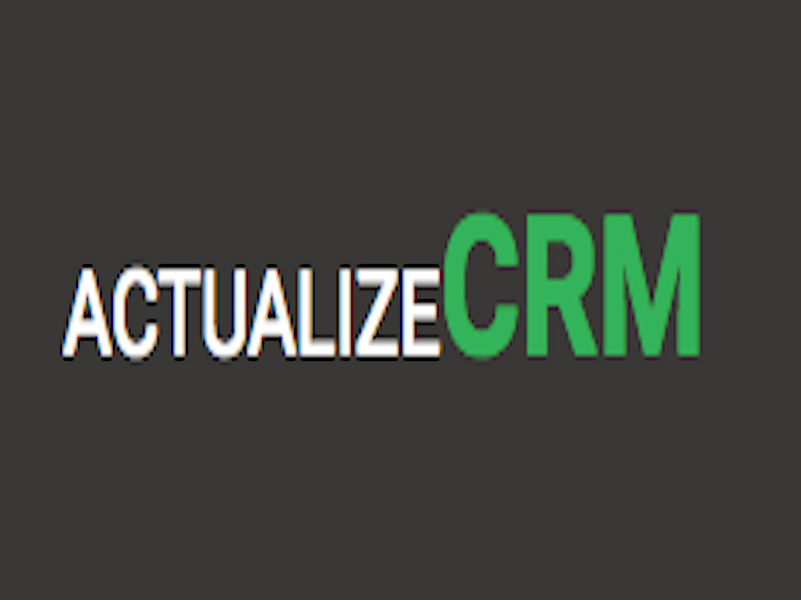
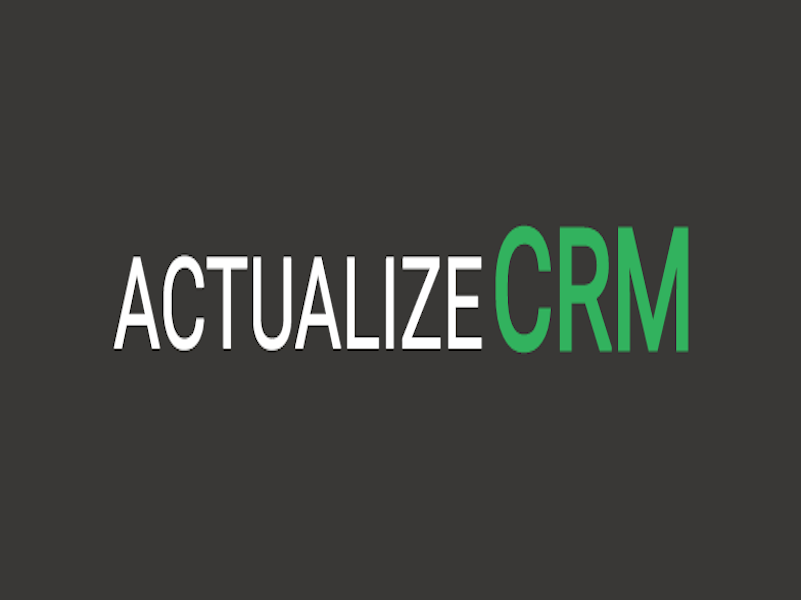
changed profile images for better quality, added email form

Changed region(s): [[0.0624, 0.33, 0.8739, 0.6]]

diff --git a/index.html b/index.html
@@ -49,7 +49,7 @@
               <a class="nav-link js-scroll-trigger" href="#about">About</a>
             </li>
             <li class="nav-item">
-              <a class="nav-link js-scroll-trigger" href="#team">Team</a>
+              <a class="nav-link js-scroll-trigger" href="#bio">Bio</a>
             </li>
             <li class="nav-item">
               <a class="nav-link js-scroll-trigger" href="#contact">Contact</a>
@@ -67,11 +67,11 @@
           <div class="intro-heading text-uppercase">Full-Stack 
             <br>
           Developer</div>             
-          <span class="btn btn-primary btn-xl text-uppercase js-scroll-trigger" href="#services">Tell Me More</span>
+          <a class="btn btn-primary btn-xl text-uppercase js-scroll-trigger" href="#portfolio">Tell Me More</a>
         </div>
       </div>
     </header>
-    </div>
+
 
     <!-- Services -->
 <!--     <section id="services">
@@ -129,7 +129,7 @@
                   <i class="fa fa-plus fa-3x"></i>
                 </div>
               </div>
-              <img class="img-fluid" src="img/portfolio/capstone.jpg" alt="">
+              <img class="img-fluid" src="img/portfolio/capstone.png" alt="">
             </a>
             <div class="portfolio-caption">
               <h4>Where's The Deal</h4>
@@ -143,7 +143,7 @@
                   <i class="fa fa-plus fa-3x"></i>
                 </div>
               </div>
-              <img class="img-fluid" src="img/portfolio/RGBgame.png" alt="">
+              <img class="img-fluid" src="img/portfolio/RGB.png" alt="">
             </a>
             <div class="portfolio-caption">
               <h4>RGB</h4>
@@ -157,7 +157,7 @@
                   <i class="fa fa-plus fa-3x"></i>
                 </div>
               </div>
-              <img class="img-fluid" src="img/portfolio/contacts.png" alt="">
+              <img class="img-fluid" src="img/portfolio/contax.png" alt="">
             </a>
             <div class="portfolio-caption">
               <h4>Contax</h4>
@@ -292,12 +292,12 @@
     </section>
 
     <!-- Team -->
-    <section class="bg-light" id="team">
+    <section class="bg-light" id="bio">
       <div class="container">
         <div class="row">
           <div class="col-lg-12 text-center">
             <h2 class="section-heading text-uppercase">Bio</h2>
-            <h3 class="section-subheading text-muted">Having worked at some of the top tier automotive companies and seeing the software technologies they're able to implement in cars caught my interest. Which led me to my current career as a developer, and I now use code like I’ve used my toolbox.</h3>
+            <h3 class="section-subheading text-muted">Having worked at some of the top tier automotive companies and seeing the software technologies they're able to implement to their cars caught my interest. Which led me to my current career as a developer, and I now use code like I’ve used my toolbox.</h3>
           </div>
         </div>
         <div class="row" >
@@ -375,7 +375,7 @@
         </div>
         <div class="row">
           <div class="col-lg-12">
-            <form id="contactForm" name="sentMessage" novalidate>
+            <form action="https://formspree.io/allencheng219@gmail.com" method="post" novalidate>
               <div class="row">
                 <div class="col-md-6">
                   <div class="form-group">
@@ -387,7 +387,7 @@
                     <p class="help-block text-danger"></p>
                   </div>
                   <div class="form-group">
-                    <input class="form-control" id="phone" type="tel" placeholder="Your Phone *" required data-validation-required-message="Please enter your phone number.">
+                    <input class="form-control" id="phone" type="tel" placeholder="Your Phone * (optional)">
                     <p class="help-block text-danger"></p>
                   </div>
                 </div>
@@ -550,7 +550,7 @@ document.write("2017 - " + theDate.getFullYear());
       </div>
     </div>
 
-    <!-- Modal 3 Contacts App-->
+    <!-- Modal 3 Contax App-->
     <div class="portfolio-modal modal fade" id="portfolioModal3" tabindex="-1" role="dialog" aria-hidden="true">
       <div class="modal-dialog">
         <div class="modal-content">
@@ -573,9 +573,9 @@ document.write("2017 - " + theDate.getFullYear());
                     <!-- <li>Client: Finish</li> -->
                     <li>Language(s) Used: Javascript, VueJS, Ruby, Rails</li>
                   </ul>
-                  <a class="btn btn-secondary" target="_blank" type="button" href="https://allenscheng-contacts-app.herokuapp.com">
-                    <i class="far fa-hand-point-right"></i>
-                    Visit site</a>
+                  <button class="btn btn-primary" onClick="window.open('https://contax-app.herokuapp.com/');" type="button" href="https://contax-app.herokuapp.com/">
+                    <i class="far fa-hand-point-right btn-floating pulse"></i>
+                    Visit site</button>
                   <button class="btn btn-primary" data-dismiss="modal" type="button">
                     <i class="fa fa-times"></i>
                     Close Project</button>

diff --git a/index.css b/index.css
@@ -5,3 +5,19 @@
 .underLine {
   text-decoration: underline;
 }
+@keyframes pulse {
+  0% {
+    transform: scale(1);
+  }
+  50% {
+    transform: scale(1.1);
+  }
+  100% {
+    transform: scale(1);
+  }
+}
+.pulse {
+  animation-name: pulse;
+  animation-duration: 3s;
+  animation-iteration-count: infinite;
+}
